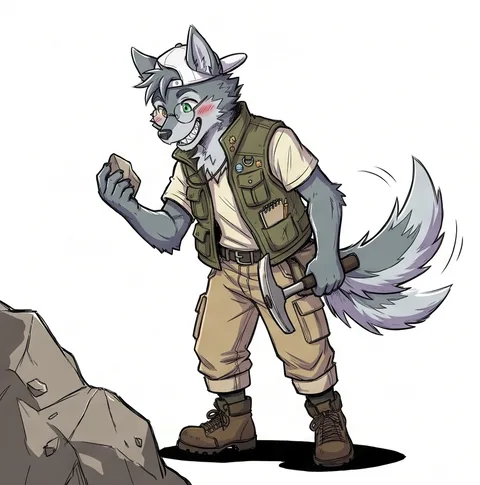
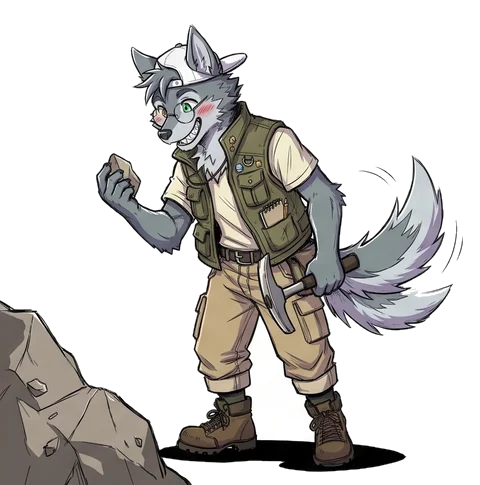
關於我：子午線動畫改成去背版，放回深藍斜色塊上

diff --git a/app/about/page.tsx b/app/about/page.tsx
@@ -142,17 +142,23 @@ export default function AboutPage() {
             <div className="mt-3 grid gap-6 border-t-4 border-foreground pt-6 sm:grid-cols-[240px_minmax(0,1fr)]">
               <figure className="mx-auto w-60 sm:w-full">
                 {/* 逐格動畫（6 格）；偏好減少動態時只顯示最後一格 */}
-                <picture>
-                  <source srcSet="/img/meridian/hammer-still.webp" media="(prefers-reduced-motion: reduce)" />
-                  <img
-                    src="/img/meridian/hammer.webp"
-                    alt="子午線 Meridian：戴圓框眼鏡和白色棒球帽的灰狼，揮地質錘敲石頭，敲下碎片後得意地笑"
-                    width={480}
-                    height={485}
-                    loading="lazy"
-                    className="block h-auto w-full border-2 border-foreground bg-white shadow-[6px_6px_0_var(--navy)] dark:shadow-[6px_6px_0_var(--gold)]"
+                <div className="relative">
+                  <div
+                    className="absolute inset-x-3 bottom-2 top-8 -skew-x-6 bg-[var(--navy)] dark:bg-[#2f3a5e]"
+                    aria-hidden="true"
                   />
-                </picture>
+                  <picture>
+                    <source srcSet="/img/meridian/hammer-still.webp" media="(prefers-reduced-motion: reduce)" />
+                    <img
+                      src="/img/meridian/hammer.webp"
+                      alt="子午線 Meridian：戴圓框眼鏡和白色棒球帽的灰狼，揮地質錘敲石頭，敲下碎片後得意地笑"
+                      width={480}
+                      height={485}
+                      loading="lazy"
+                      className="relative block h-auto w-full"
+                    />
+                  </picture>
+                </div>
                 <figcaption className="mt-3 font-mono-label text-xs text-muted-foreground">
                   {"// 今天也在找東西敲"}
                 </figcaption>
